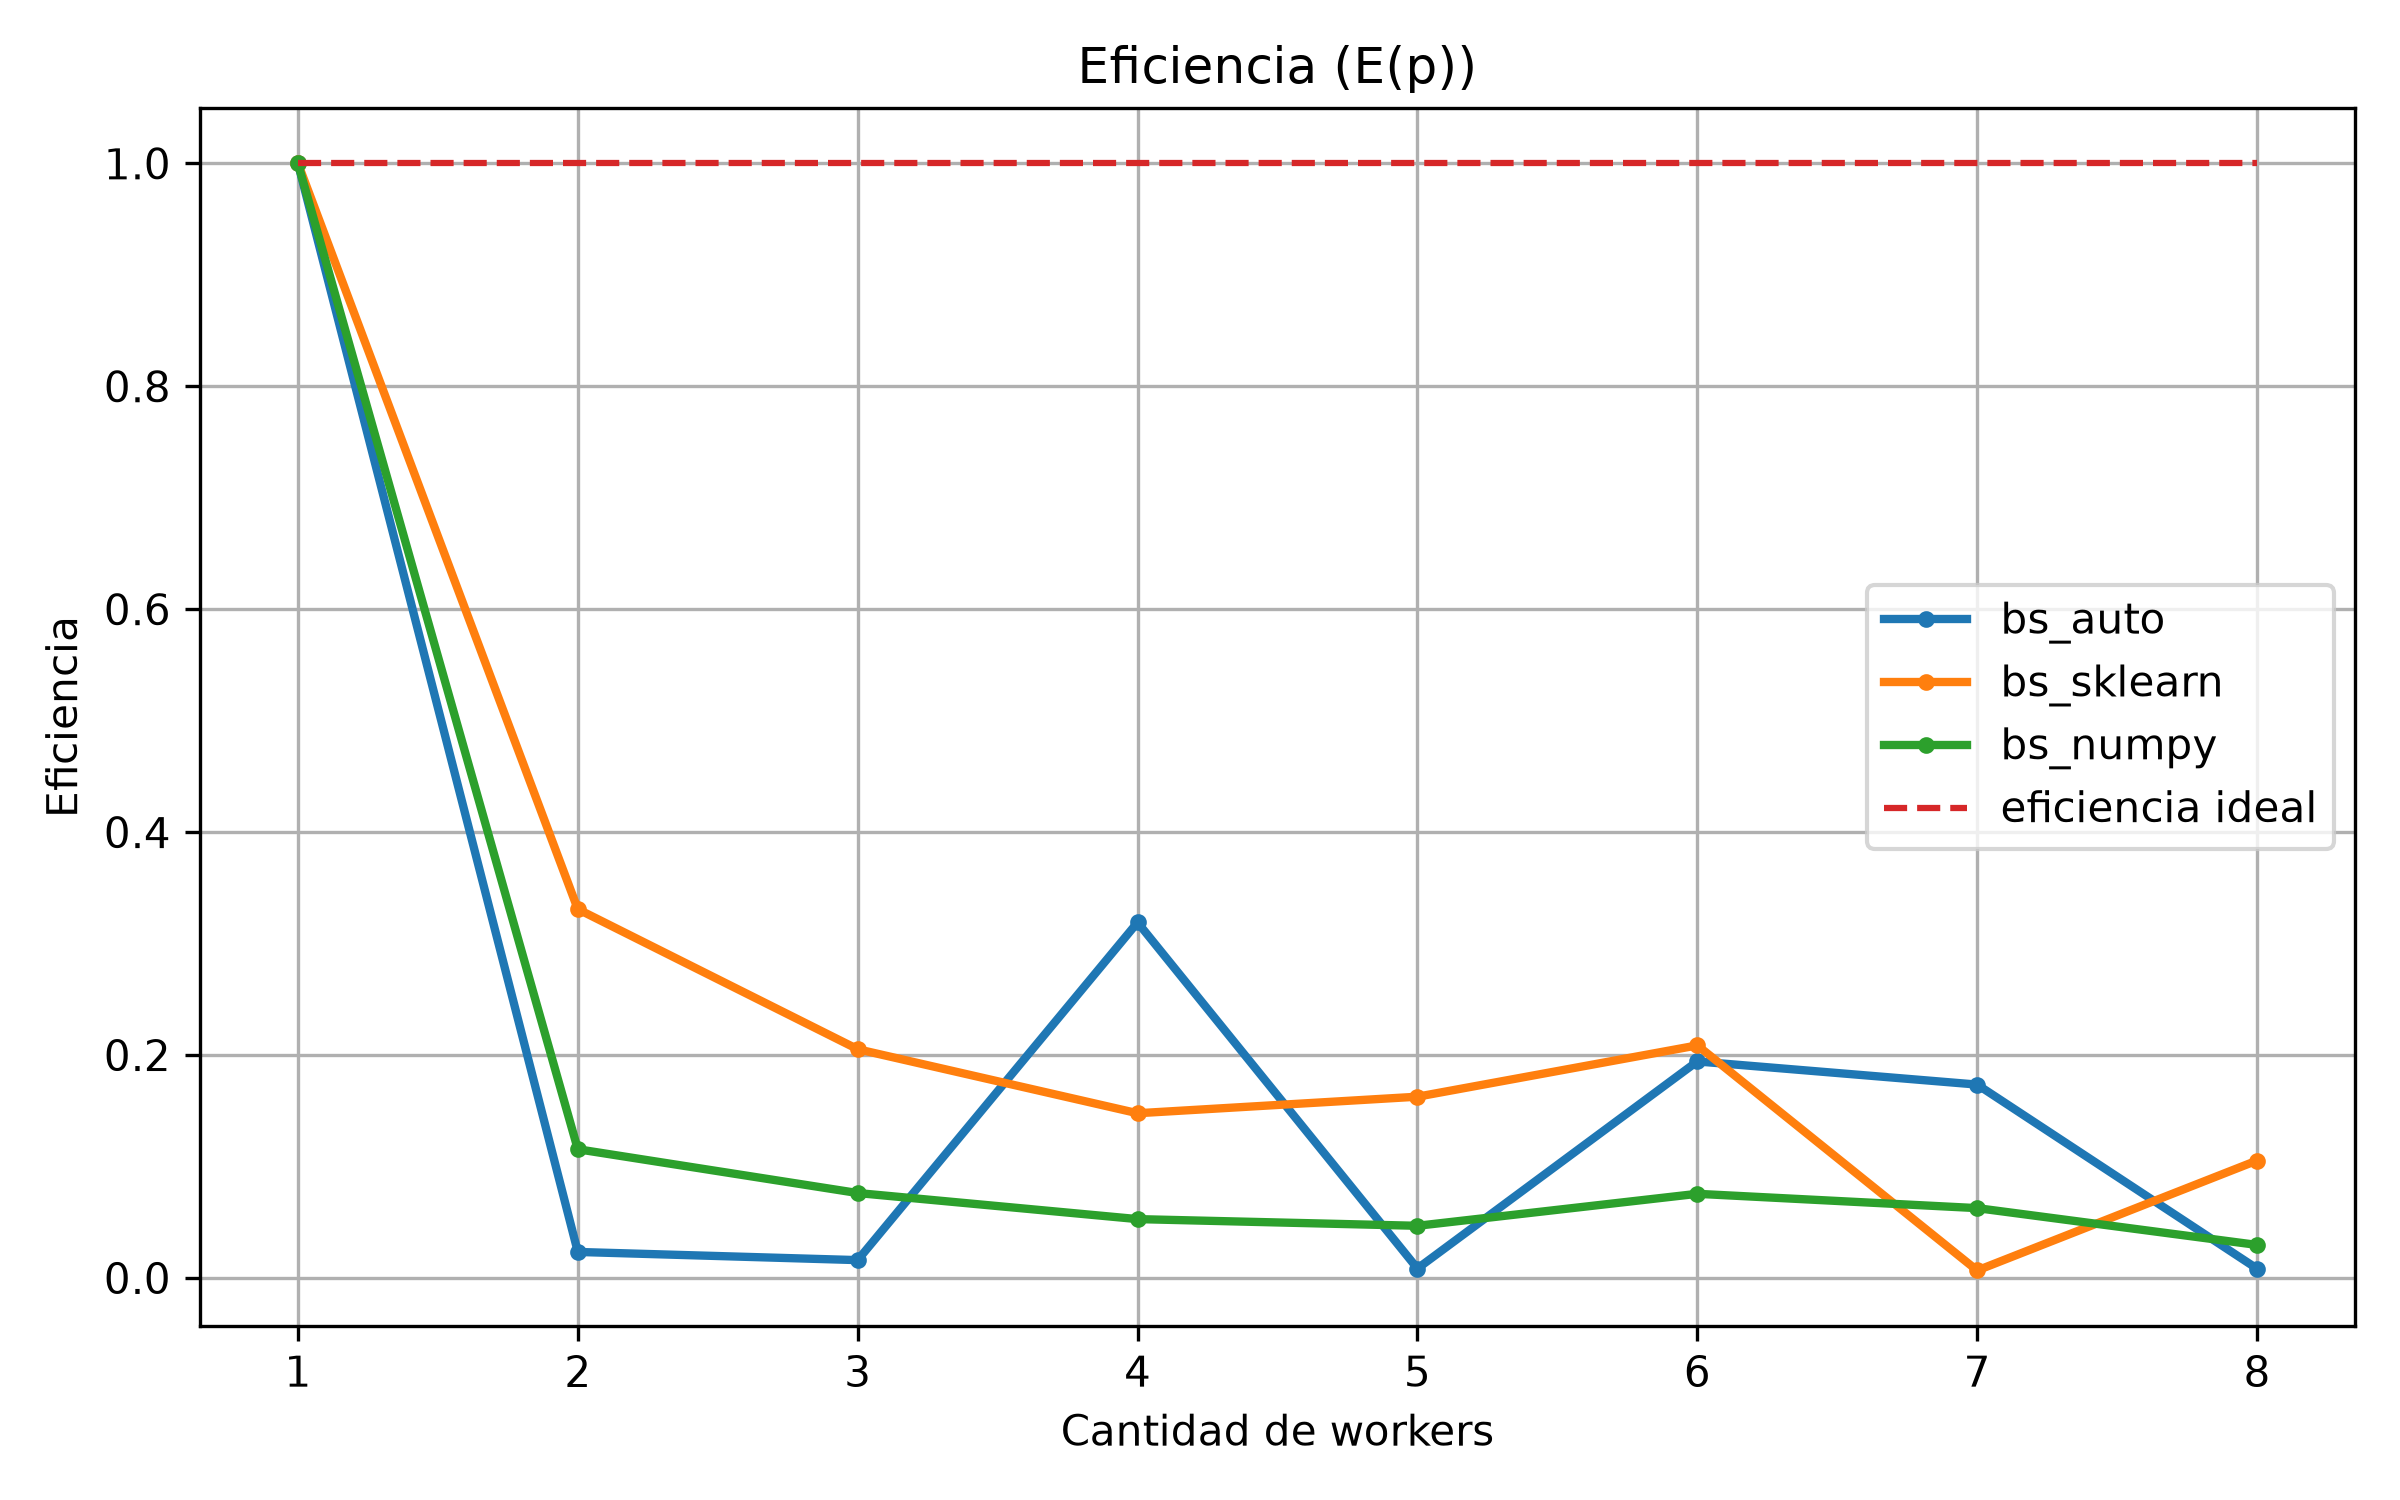
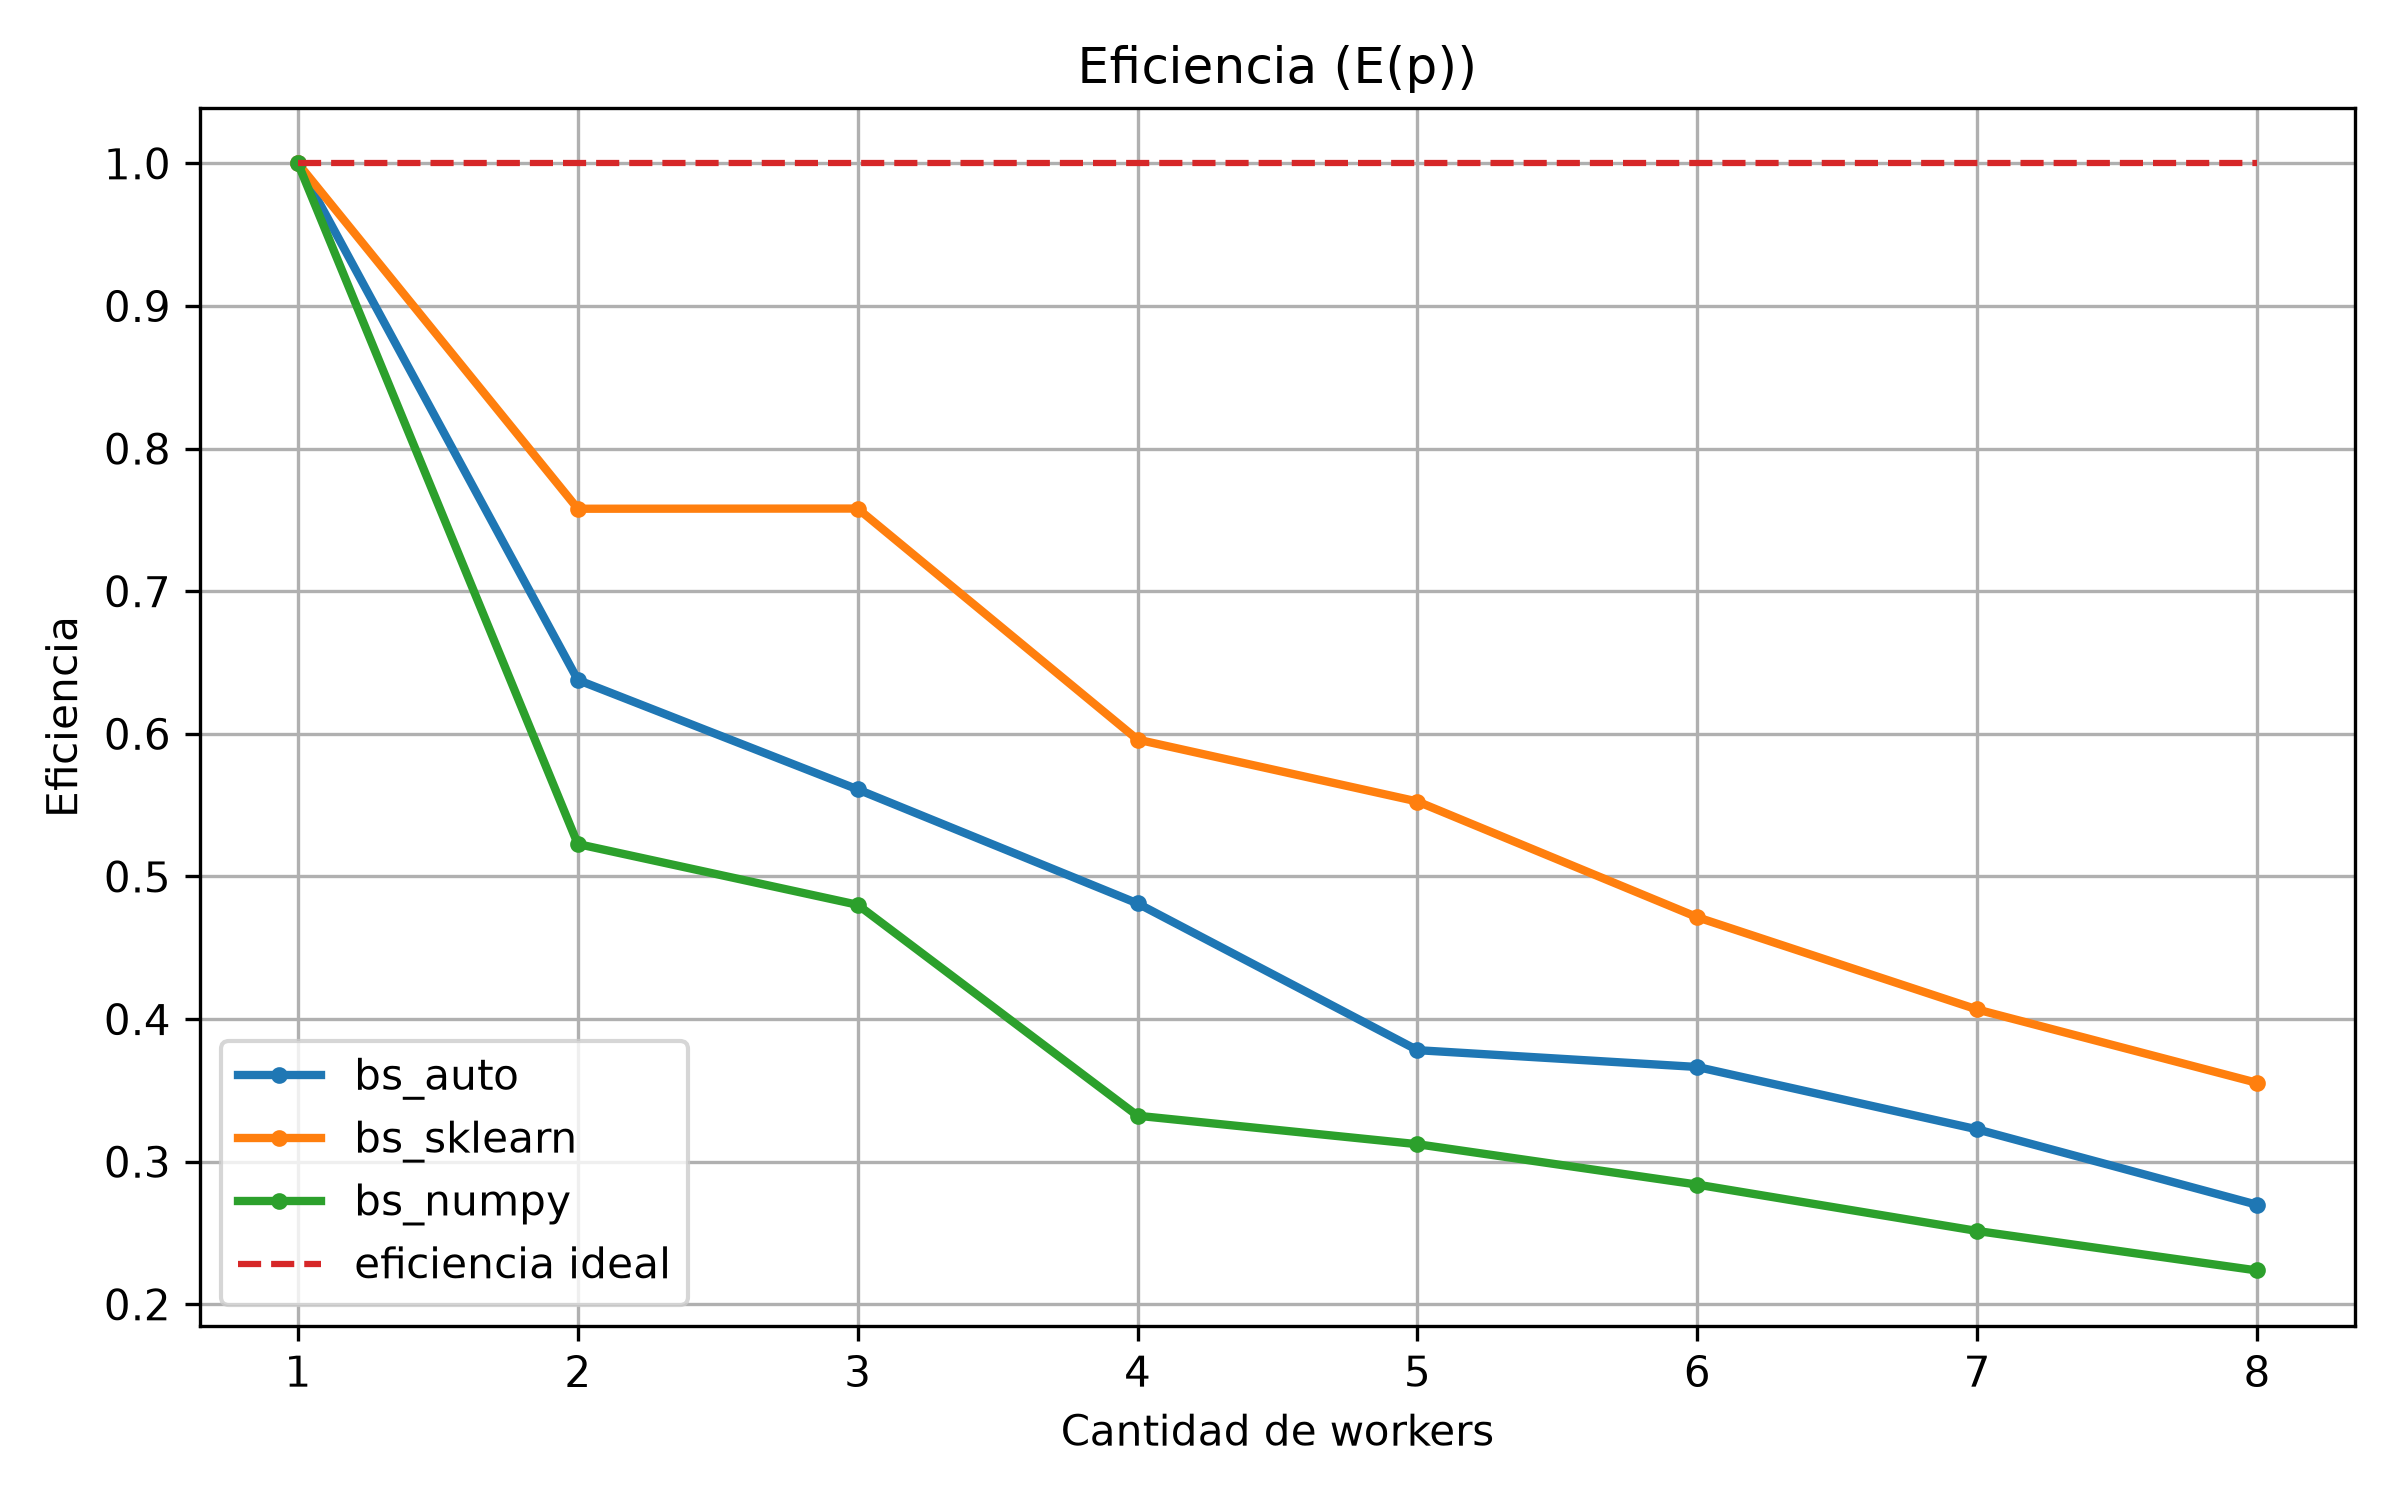
AHORA SI PARAMETROS CORRECTOS (PERO REVISAR IGUAL)

diff --git a/plots.py b/plots.py
@@ -142,7 +142,7 @@ def plot_overhead(Tauto, Tsklearn, Tnumpy, T1):
 if __name__ == "__main__":
 
     # parametros
-    N = 10000
+    N = 100000
     k = 300
     B = 48
     p_max = int(sys.argv[1])
